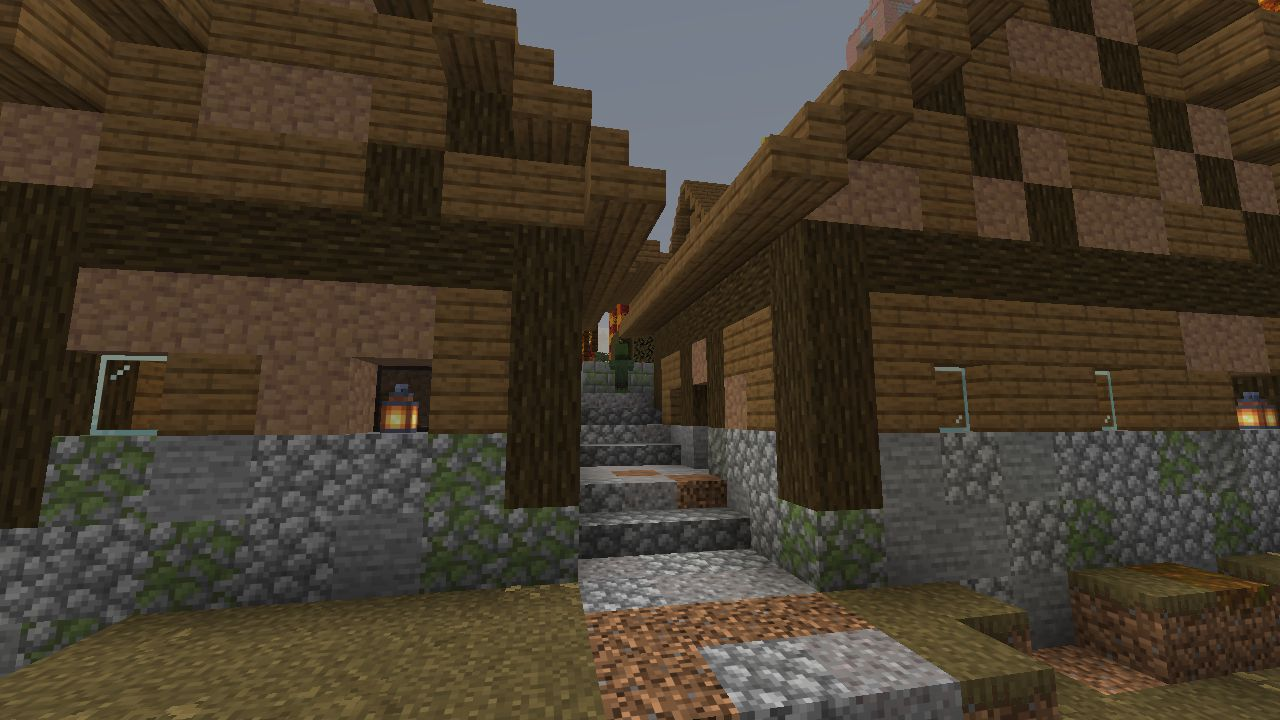
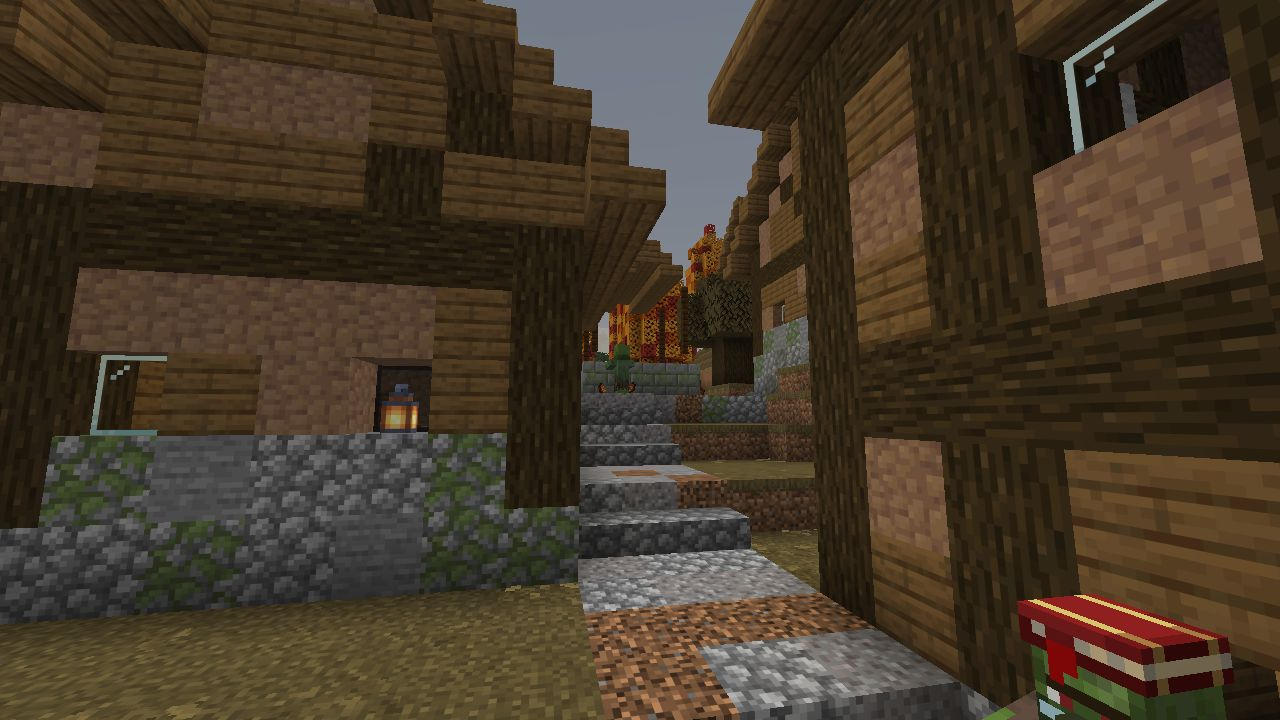
T-031: дома не закрывают меч Гребня с площадки костра № 9 (линии взгляда), дома и у площади, запасные виды домов

Changed region(s): [[0.4688, 0.0, 1.0, 1.0], [0.0, 0.7944, 0.0938, 0.9472]]

diff --git a/tools/build/heather_plan.py b/tools/build/heather_plan.py
@@ -225,8 +225,32 @@ def widen(centre, flats_fixed):
 # (kind, w along the street, d deep, storeys): the five oddities of the card (HQ T-031, 2), the repeats in another size and finish
 HOUSES = [("walled", 7, 7, 1), ("ladder", 7, 9, 2), ("roof", 7, 7, 1), ("deep", 9, 11, 1), ("reversed", 7, 9, 1),
           ("walled", 9, 7, 2), ("roof", 9, 7, 1), ("ladder", 7, 7, 2), ("reversed", 9, 7, 1),
-          ("walled", 7, 9, 1), ("reversed", 7, 7, 1), ("roof", 7, 9, 1)]           # spares: the street takes 8..9 (HQ T-031: 8..10 + the miller's)
+          ("walled", 7, 9, 1), ("reversed", 7, 7, 1), ("roof", 7, 9, 1), ("walled", 7, 7, 1), ("reversed", 7, 9, 1), ("ladder", 7, 9, 2)]           # spares: the street takes 8..9 (HQ T-031: 8..10 + the miller's)
 MAX_HOUSES = 9
+
+VIEW_EYES = [(x + 0.5, PAD_Y + 2.62, z + 0.5) for x in (66, 70, 74) for z in (-423, -418, -414)]
+def view_targets():
+    """points of the sword over the head (heather_ridge.sword_cells): its upper half"""
+    import heather_ridge as HR
+    sk, hm = HR.skull_cells(); sw, base = HR.sword_cells(hm["eye"])
+    ys = sorted({k[1] for k in sw}); top = [k for k in sw if k[1] >= ys[len(ys) // 2]]
+    return [(k[0] + 0.5, k[1] + 0.5, k[2] + 0.5) for k in top[::max(1, len(top) // 12)]]
+_VT = []
+def lines_cut(r, top):
+    """the sight lines (eye, target) from the pad of bonfire 9 to the upper half of the sword that a house (footprint r, highest block
+    `top`) would cut"""
+    if not _VT: _VT.extend(view_targets())
+    out = set()
+    for a, e in enumerate(VIEW_EYES):
+        for b, t in enumerate(_VT):
+            for k in range(1, 200):
+                f = k / 200.0; x, y, z = (e[i] + (t[i] - e[i]) * f for i in range(3))
+                if y > top + 1: break
+                if r[0] - 1 <= x <= r[2] + 2 and r[1] - 1 <= z <= r[3] + 2: out.add((a, b)); break
+    return out
+def sword_seen(cut):
+    """the sword counts as seen from the pad while one of its eyes sees at least a quarter of the targets (the top of the blade)"""
+    return any(sum(1 for b in range(len(_VT)) if (a, b) not in cut) * 4 >= len(_VT) for a in range(len(VIEW_EYES)))
 
 def house_sites(gr, surf, taken, n=len(HOUSES)):
     """greedy: along the street, both sides, a footprint w x d set back 1 from the street edge with its door on the street; the floor at
@@ -236,7 +260,7 @@ def house_sites(gr, surf, taken, n=len(HOUSES)):
     for k, spec in enumerate(HOUSES):
         order.append((k, spec))
     out = []
-    used = set(taken); hused = set()
+    used = set(taken); hused = set(); cut = set()
     def free(r, m):
         return all((x, z) not in used for x in range(r[0], r[2] + 1) for z in range(r[1], r[3] + 1)) and \
             all((x, z) not in hused for x in range(r[0] - m, r[2] + m + 1) for z in range(r[1] - m, r[3] + m + 1))
@@ -262,6 +286,8 @@ def house_sites(gr, surf, taken, n=len(HOUSES)):
             if np.any(gr["wet"][ix(gr, r[0], r[1])[0]:ix(gr, r[2], r[3])[0] + 1, ix(gr, r[0], r[1])[1]:ix(gr, r[2], r[3])[1] + 1]): continue
             L = (v + 1) // 2                                   # the floor: the street level or half a block over it (never under: the
                                                                # door is opened from the street at the eye level)
+            lc = lines_cut(r, L + 4 * st + (d + 1) // 2 + 3)
+            if lc and not sword_seen(cut | lc): continue          # the sword of the ridge stays seen from the pad of bonfire 9
             import heather_build as HB
             fr = HB.Frame(r, face)
             # the ways in that start outside the door: the street must lie by them at the floor's level (within half a block): the
@@ -282,7 +308,7 @@ def house_sites(gr, surf, taken, n=len(HOUSES)):
             if m > MAX_EARTH: continue
             spread = min([max(abs(r[0] - q["r"][0]), abs(r[1] - q["r"][1])) for q in out] + [99])
             c = (m > 5, -min(spread, 14), int(np.abs(a - L).sum()) / 40.0)
-            if best is None or c < best[0]: best = (c, dict(k=k, kind=kind, w=w, d=d, storeys=st, r=r, L=L, face=face, door=(x + dx, z + dz), front=(x, z), v=v, earth=m, front_ap=front_ap))
+            if best is None or c < best[0]: best = (c, dict(k=k, kind=kind, w=w, d=d, storeys=st, r=r, L=L, face=face, door=(x + dx, z + dz), front=(x, z), v=v, earth=m, front_ap=front_ap, cut=lc))
         if best is None: continue
         h_ = best[1]; out.append(h_)
         # the apron at the floor level where a stair or a ladder starts outside: the outer stair of the ladder house (2 columns on the
@@ -302,6 +328,7 @@ def house_sites(gr, surf, taken, n=len(HOUSES)):
                     q = fr.xz(fr.W // 2 + a, fr.D + k)
                     if q not in surf and q not in used and q not in hused: ap.append(q)
         ap += [q for q in h_.pop("front_ap") if q not in ap]
+        cut |= h_.pop("cut")
         h_["apron"] = ap
         for q in ap: hused.add(q)
         for xx in range(h_["r"][0], h_["r"][2] + 1):
@@ -385,7 +412,8 @@ def plan(gr):
     plain = plain_sites(gr, taken)
     for k, q in plain.items():
         r = q["r"]; taken |= {(x, z) for x in range(r[0] - 1, r[2] + 2) for z in range(r[1] - 1, r[3] + 2)}
-    houses = house_sites(gr, surf, taken)
+    sqc = {(x, z): 2 * sL for x in range(square[0], square[2] + 1) for z in range(square[1], square[3] + 1)}
+    houses = house_sites(gr, dict(surf, **{}) | sqc, taken)          # houses face the street and the square
     mound = head_mound(gr)
     tr = trail(gr, church, cL, mound, set())
     tsurf = widen(tr, {})

diff --git a/tools/build/heather_shots.py b/tools/build/heather_shots.py
@@ -88,7 +88,7 @@ def main(names):
         if n in S: S[n]()
     R("gamerule advance_time true"); R("gamemode survival Cam2")
 
-P_PAD = (66.5, 64, -415.5)
+P_PAD = (65.5, 64, -415.5)          # a cell of the pad that sees the sword over the houses of the bank
 def odd(k):
     R("time set 6000")
     if k == "walled":
